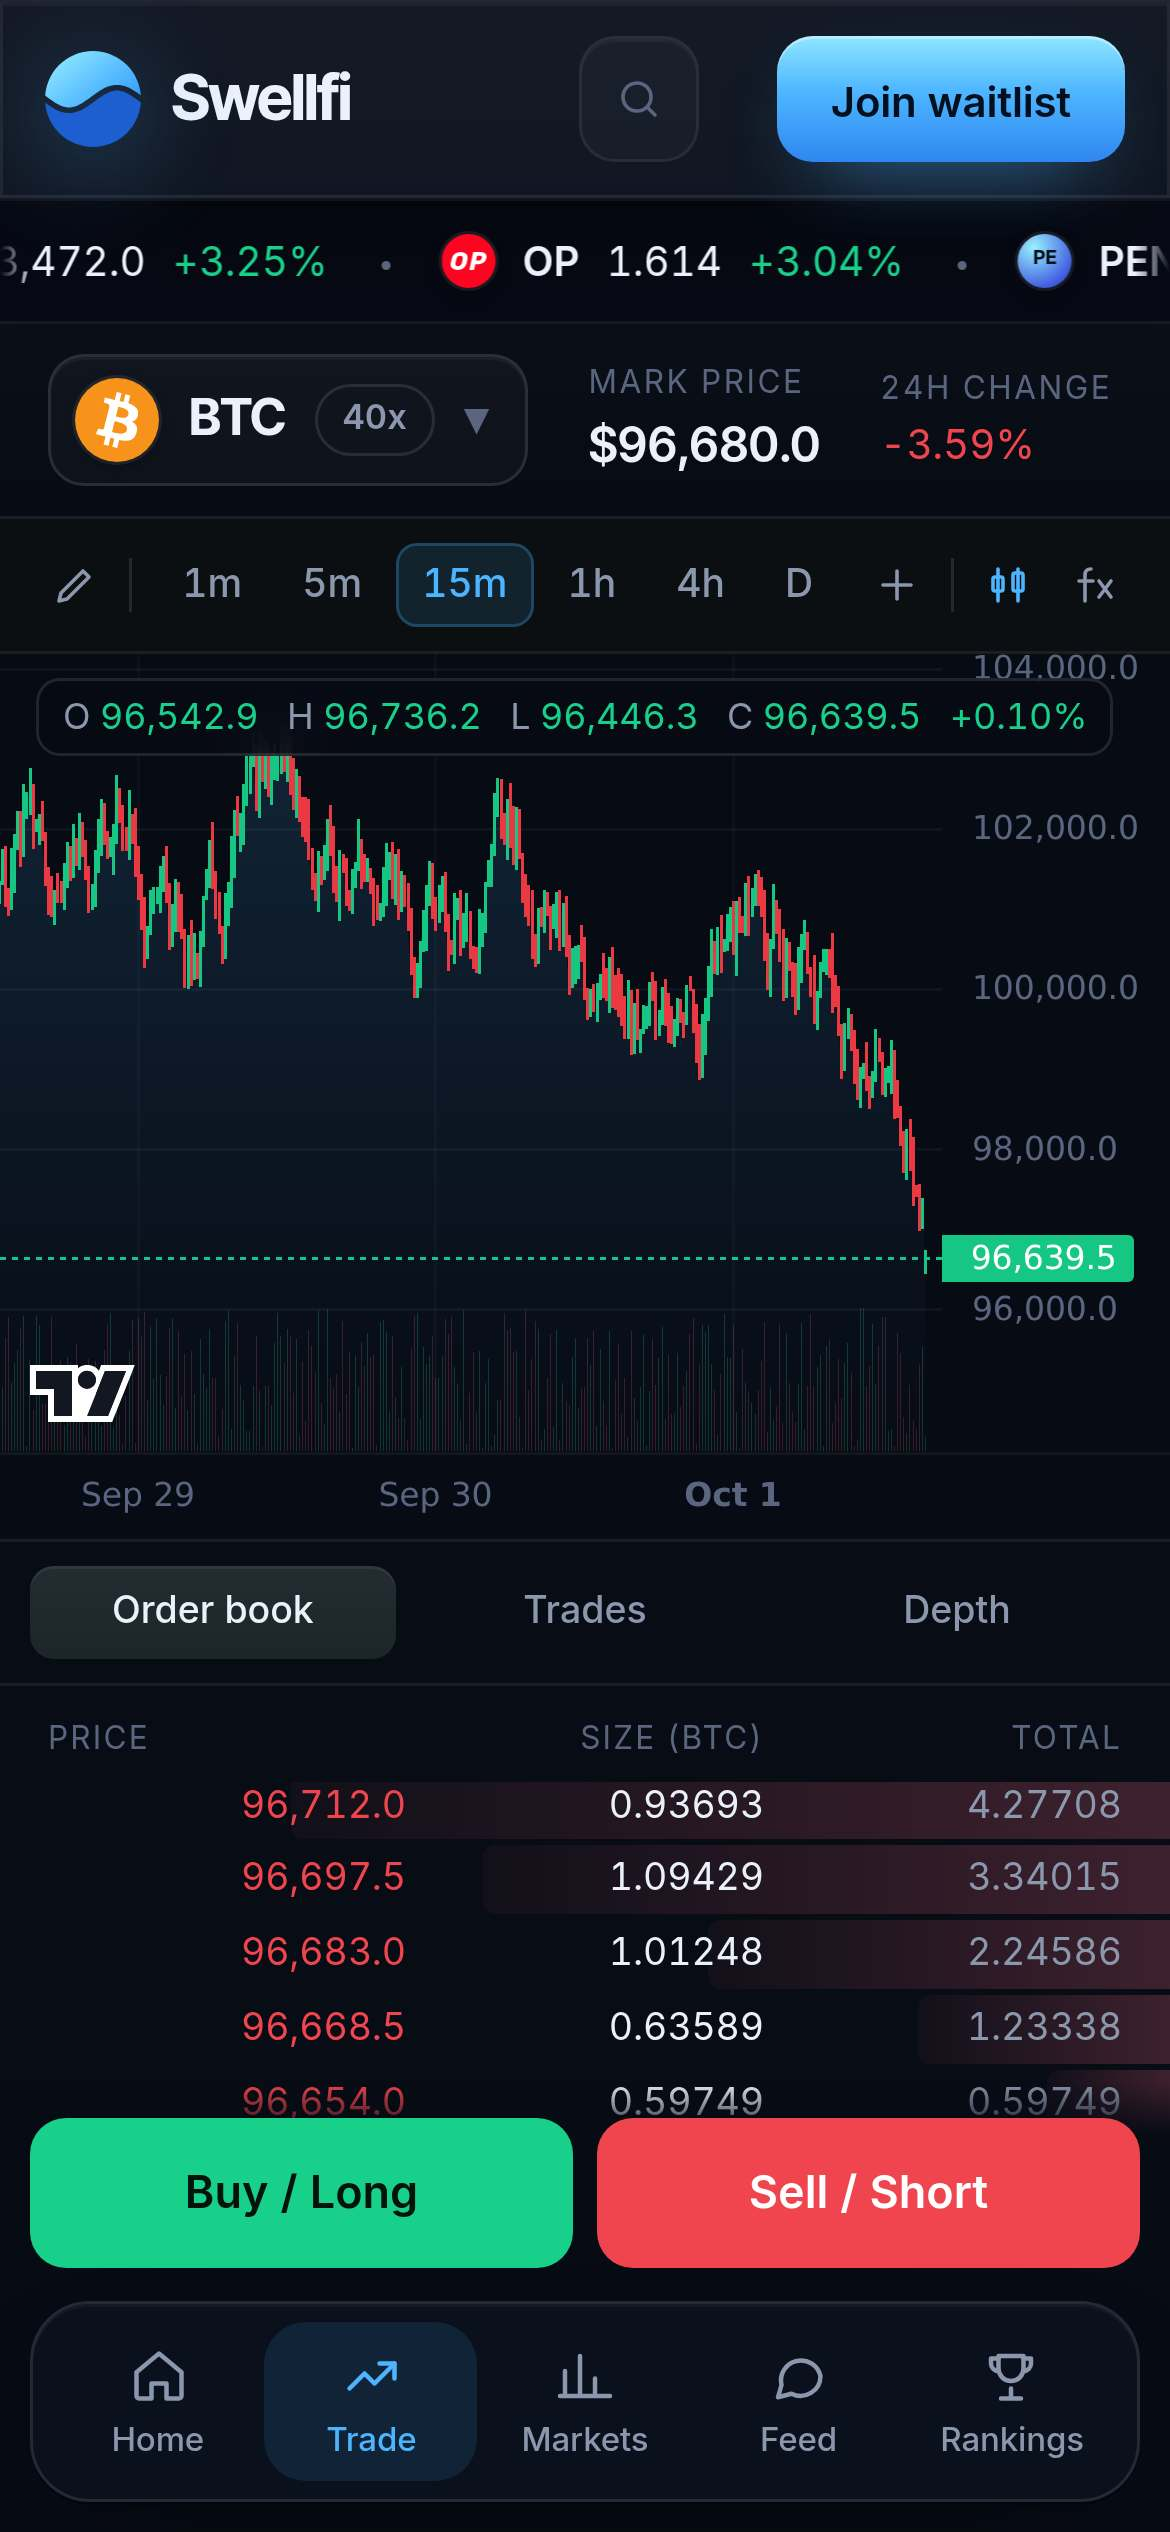
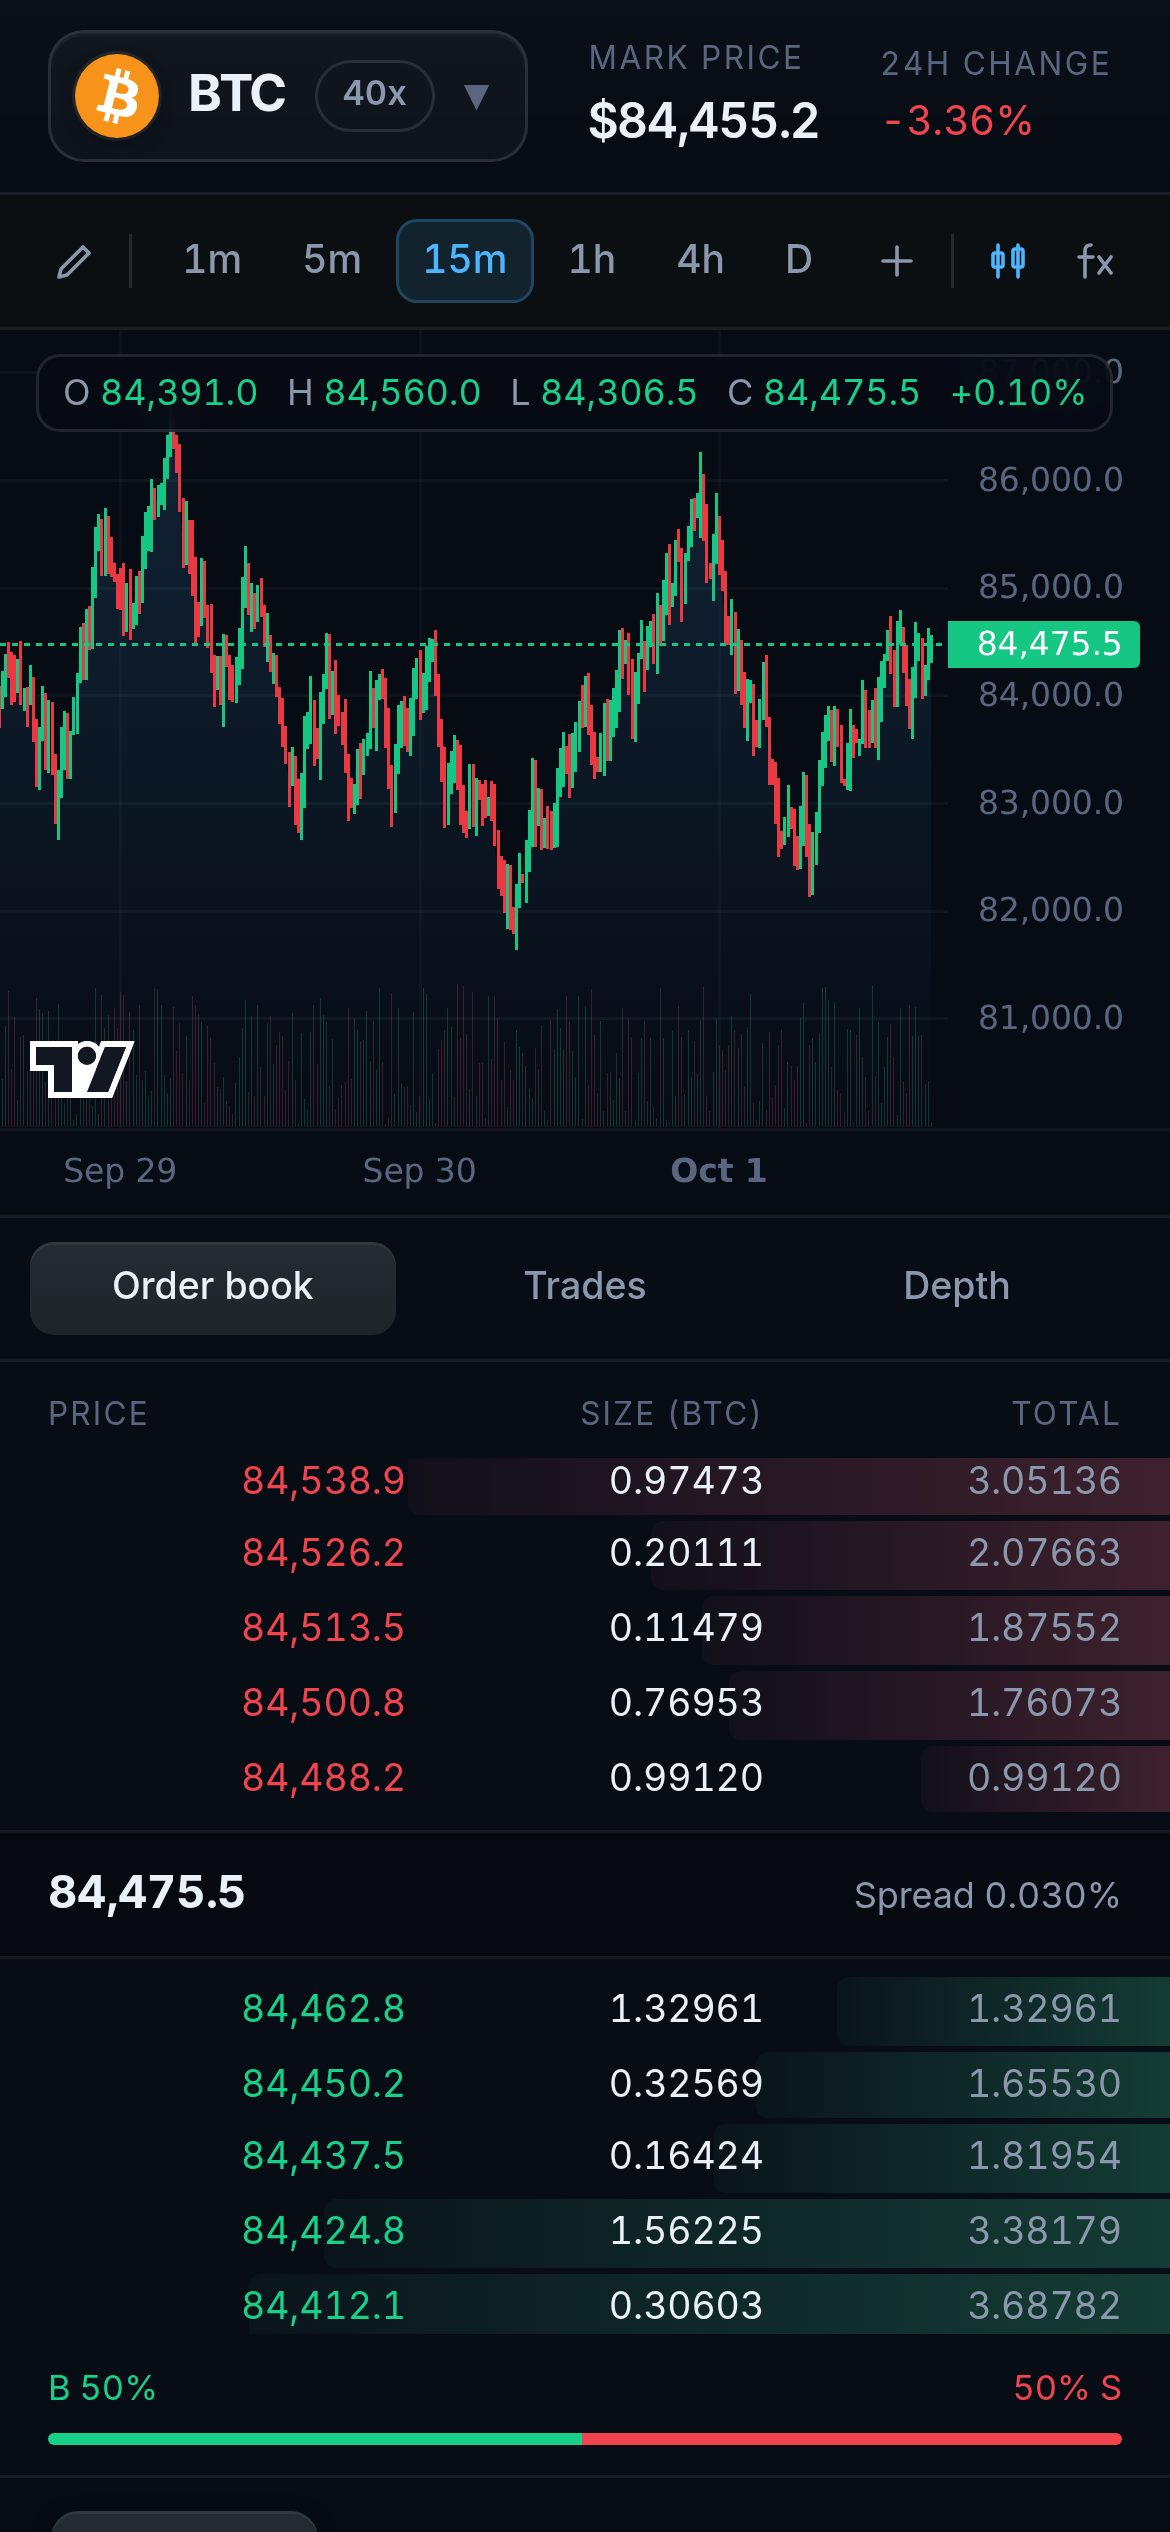
Access gate: cleaner mobile background
On phones the background was zoomed up to 112%, so the terminal's text
was larger than the card's, and it showed the site header with its
"Join waitlist" button (looking tappable behind the gate) and stale
mock prices. The phone background is now a fresh 3x capture of just the
chart and order book at current prices, drifting to at most 105% over
32 s, under an even darker shade. The card is a little more compact on
phones and centres within the visible viewport (100dvh) on iOS Safari.

Claude-Session: https://claude.ai/code/session_0184sWEeiyEU9z4bhtvwkP8y

diff --git a/apps/web/src/lib/access.ts b/apps/web/src/lib/access.ts
@@ -64,6 +64,7 @@ function page(next: string, error: string): string {
 <style>
 *{box-sizing:border-box;margin:0}
 html,body{height:100%}
+body{min-height:100dvh}
 body{display:grid;place-items:center;padding:24px 16px;background:#070B14;color:#EAF1FA;font:15px/1.5 Inter,system-ui,-apple-system,"Segoe UI",sans-serif;-webkit-font-smoothing:antialiased;overflow:hidden}
 /* The trading terminal behind the card, from public/access/ so no app code or live data loads
    before unlocking: a muted loop recording on desktop, a slowly drifting screenshot on phones.
@@ -72,8 +73,17 @@ body::before{content:"";position:fixed;inset:0;background:url(/access/terminal-d
 #bgv{position:fixed;inset:0;width:100%;height:100%;object-fit:cover;object-position:center top;opacity:0;transition:opacity .8s ease}
 #bgv.on{opacity:1}
 body::after{content:"";position:fixed;inset:0;background:radial-gradient(620px 440px at 50% 50%,rgba(7,11,20,.72),rgba(7,11,20,.5) 80%)}
-@keyframes drift{from{transform:scale(1.02) translate3d(0,0,0)}to{transform:scale(1.12) translate3d(-2%,-3%,0)}}
-@media (max-width:640px){body::before{background-image:url(/access/terminal-mobile.jpg);animation:drift 26s ease-in-out infinite alternate}#bgv{display:none}}
+@keyframes drift{from{transform:scale(1) translate3d(0,0,0)}to{transform:scale(1.05) translate3d(-1.5%,-2.5%,0)}}
+@media (max-width:640px){
+  body{padding:20px 16px}
+  body::before{background-image:url(/access/terminal-mobile.jpg);transform-origin:50% 30%;animation:drift 32s ease-in-out infinite alternate}
+  body::after{background:linear-gradient(180deg,rgba(7,11,20,.62),rgba(7,11,20,.5) 45%,rgba(7,11,20,.7))}
+  #bgv{display:none}
+  .card{padding:26px 22px;border-radius:18px}
+  .brand{margin-bottom:22px}
+  h1{font-size:21px}
+  p{margin-bottom:18px}
+}
 @media (prefers-reduced-motion:reduce){body::before{animation:none}#bgv{display:none}}
 .card{position:relative;z-index:1;width:100%;max-width:400px;padding:32px 28px;border-radius:20px;background:linear-gradient(180deg,rgba(255,255,255,.04),rgba(255,255,255,0) 120px),rgba(13,19,32,.84);-webkit-backdrop-filter:blur(16px);backdrop-filter:blur(16px);border:1px solid rgba(255,255,255,.1);box-shadow:0 30px 80px -20px rgba(0,0,0,.85)}
 .brand{display:flex;align-items:center;gap:10px;font-weight:700;font-size:20px;letter-spacing:-.01em;margin-bottom:28px}
